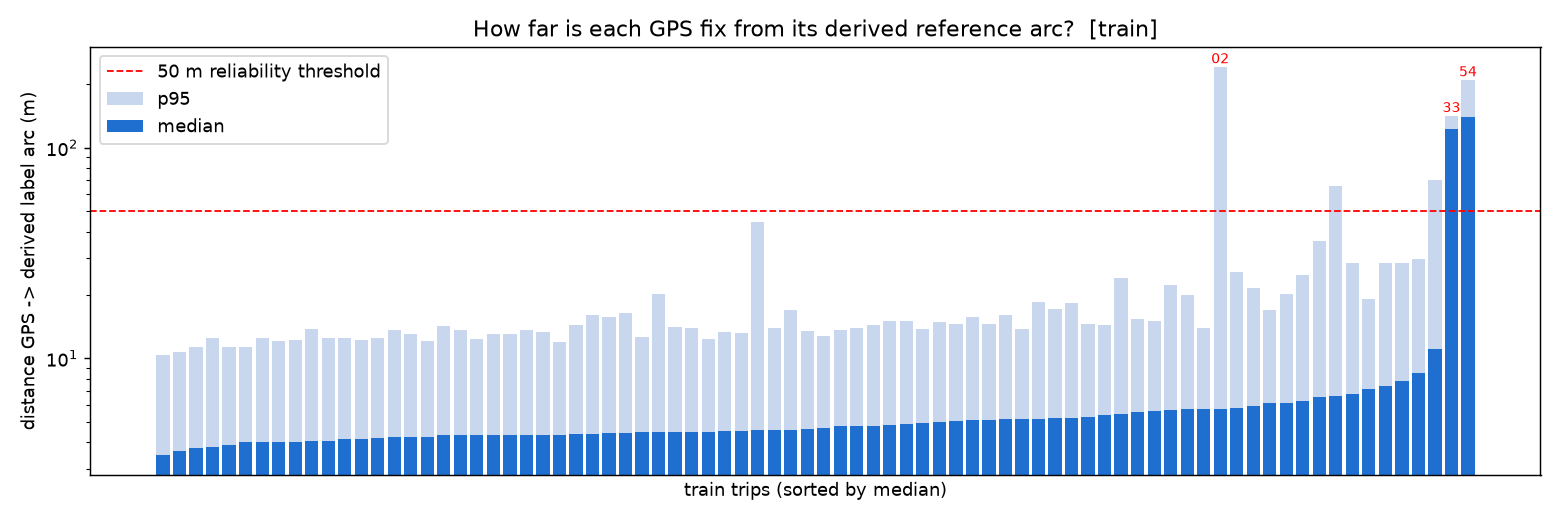
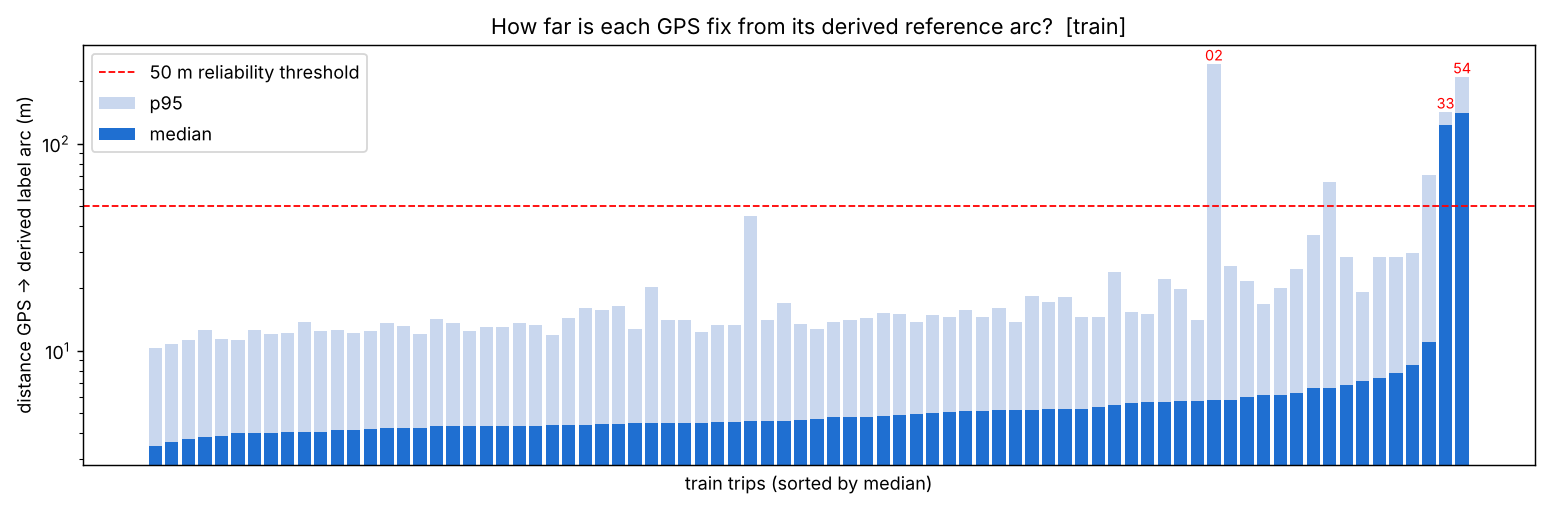
EDA: save figures with tight bounding box (suptitles were cropped); regenerated, data unchanged

Changed region(s): [[0.0, 0.0296, 0.9929, 0.9763]]

diff --git a/scripts/01_eda.py b/scripts/01_eda.py
@@ -29,7 +29,7 @@ SPLIT_COLORS = {"train": "#1f6fd1", "student_test": "#f28e1c"}
 
 def savefig(fig, name):
     fig.tight_layout()
-    fig.savefig(FIG / name, dpi=130)
+    fig.savefig(FIG / name, dpi=130, bbox_inches="tight")
     plt.close(fig)
     print("  wrote", FIG / name)
 
